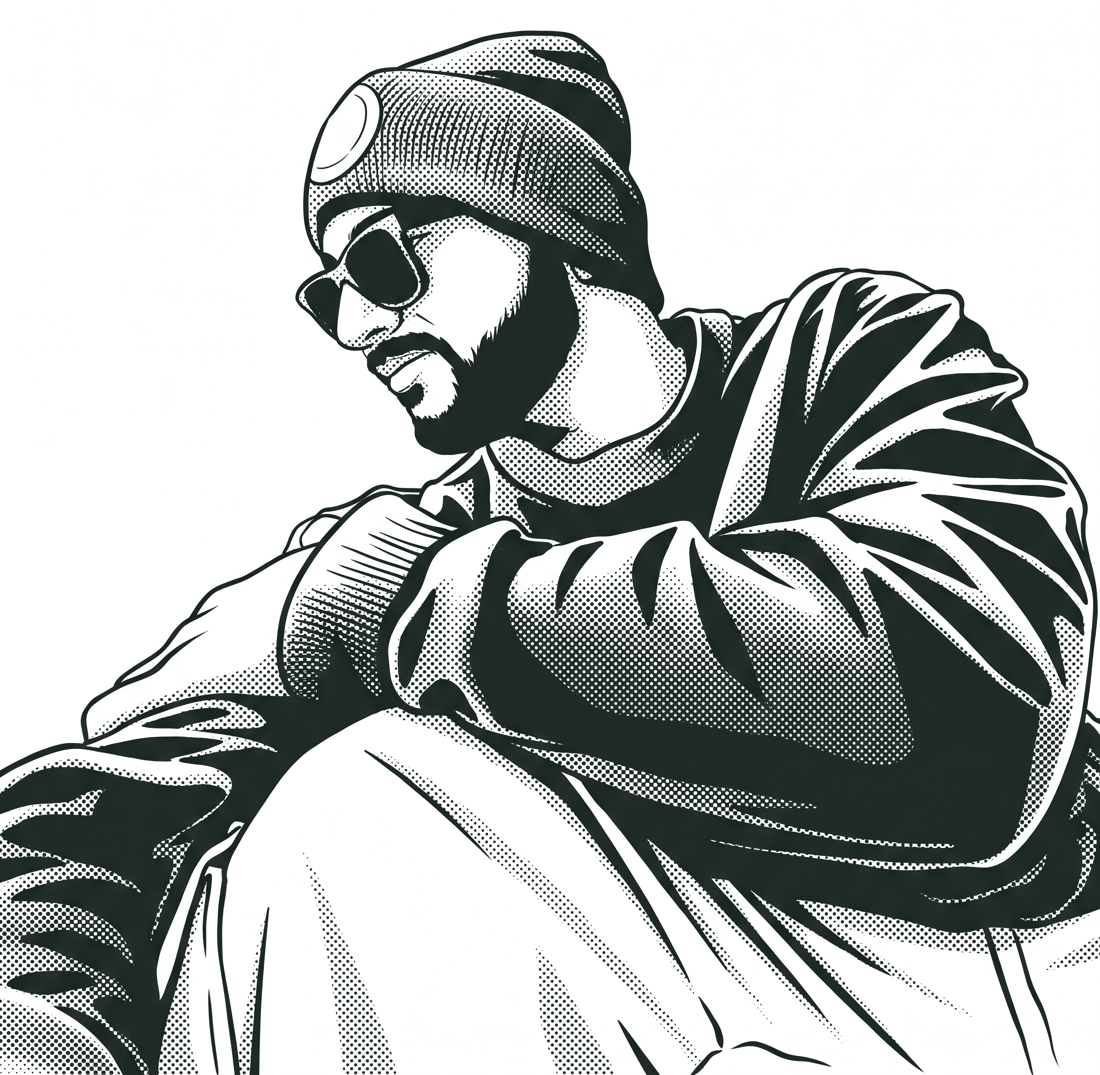
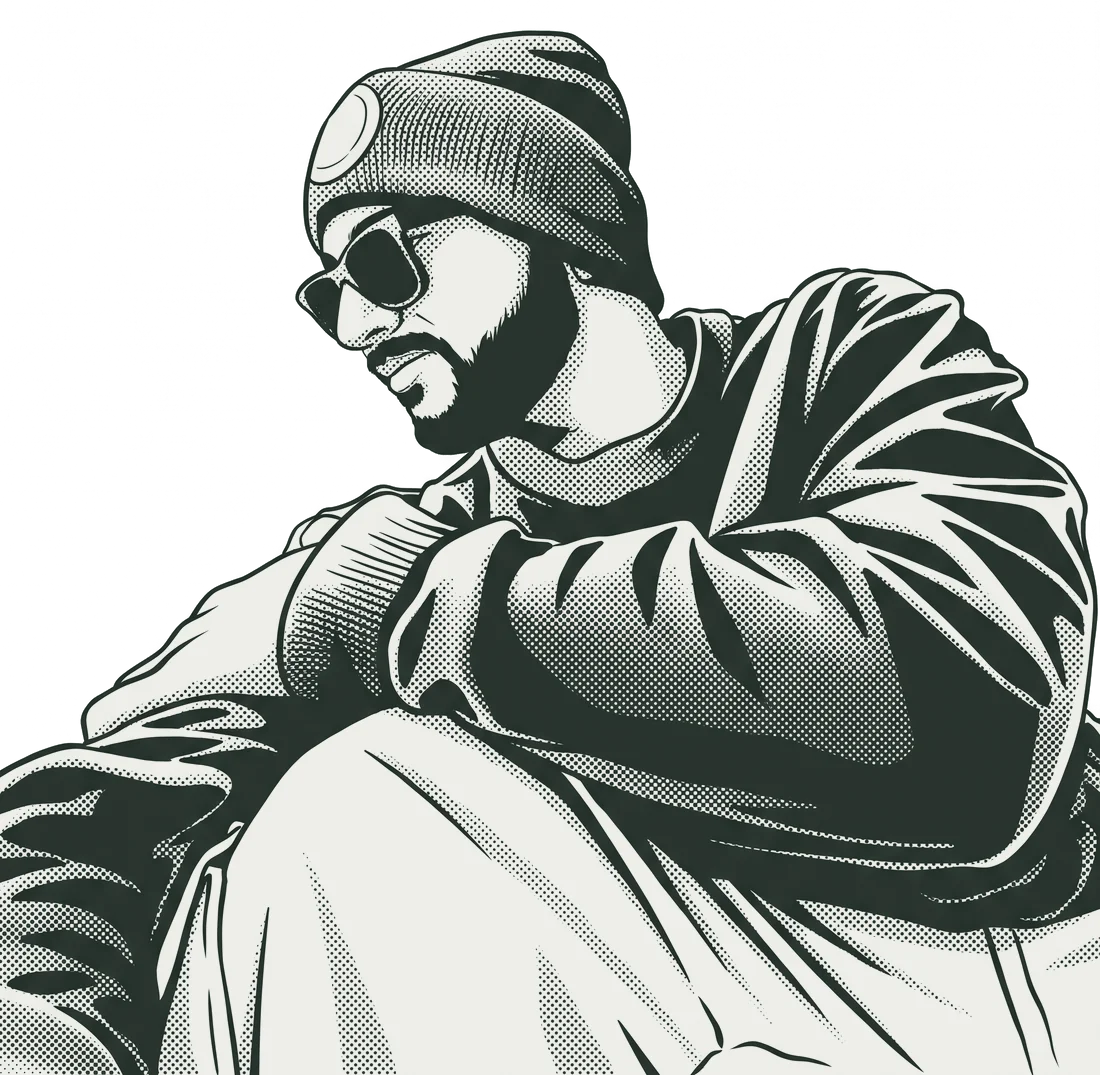
Fix guide accessibility and voice, add page-wide dot grid
- Announce the guide's answer once instead of while it streams; keep only the
  status text as a live region.
- Move focus to the target row after a "Show" jump.
- Give the header name link a 44px target.
- Make the guide an assistant that refers to Yash in the third person.
- Add a fixed dot grid behind the whole page that darkens near the pointer,
  reading its colour from the --ink token; skipped under reduced motion.
- Rebuild the portrait with an opaque figure so dots do not show through.

diff --git a/apps/web/src/App.tsx b/apps/web/src/App.tsx
@@ -1,6 +1,7 @@
 import { FormEvent, useEffect, useRef, useState } from 'react';
 import { Link } from 'react-router-dom';
 import { Answer, answerFor, projects, roles, stackGroups, suggestions } from './content';
+import { DotGrid } from './DotGrid';
 import { SiteHeader, Trace } from './parts';
 
 const contactLinks = [
@@ -46,6 +47,7 @@ export function Home() {
   const [asked, setAsked] = useState('');
   const [answer, setAnswer] = useState<Answer | null>(null);
   const [shown, setShown] = useState('');
+  const [announce, setAnnounce] = useState('');
   const [status, setStatus] = useState<Status>('ready');
   const [marked, setMarked] = useState<string | null>(null);
   const timers = useRef<number[]>([]);
@@ -69,6 +71,7 @@ export function Home() {
     setQuestion('');
     setAnswer(null);
     setShown('');
+    setAnnounce('');
     setMarked(null);
     setStatus('thinking');
 
@@ -81,6 +84,7 @@ export function Home() {
           setStatus('answering');
           if (reduce) {
             setShown(result.text);
+            setAnnounce(result.text);
             setStatus('ready');
             return;
           }
@@ -90,7 +94,10 @@ export function Home() {
             i += 1;
             setShown(words.slice(0, i).join(' '));
             if (i < words.length) timers.current.push(window.setTimeout(tick, 28));
-            else setStatus('ready');
+            else {
+              setStatus('ready');
+              setAnnounce(result.text);
+            }
           };
           tick();
         },
@@ -113,6 +120,8 @@ export function Home() {
     if (!el) return;
     // Scroll behavior comes from the stylesheet, so this matches every other jump on the page.
     el.scrollIntoView({ block: 'start' });
+    // Move keyboard and screen reader focus to the target as well.
+    el.focus({ preventScroll: true });
     const wait = prefersReducedMotion() ? 0 : 500;
     timers.current.push(window.setTimeout(() => setMarked(id), wait));
     timers.current.push(window.setTimeout(() => setMarked(null), wait + 4000));
@@ -125,6 +134,7 @@ export function Home() {
 
   return (
     <>
+      <DotGrid />
       <SiteHeader />
       <main id="main">
         <section className="ask" aria-labelledby="ask-title">
@@ -135,14 +145,15 @@ export function Home() {
           </h1>
           <p className="ask-lede">
             I’m Yash Bakshi, a software engineer who builds AI applications and the backend, cloud
-            and delivery work around them. Ask the guide about anything I’ve shipped.
+            and delivery work around them. The guide below is an assistant that answers questions
+            about my projects from my own notes.
           </p>
 
           <div className="ask-body">
             <div className="console">
               <form className="console-form" onSubmit={onSubmit}>
                 <label htmlFor="ask-input" className="console-label">
-                  Ask about my work
+                  Ask the guide about Yash’s work
                 </label>
                 <div className="console-row">
                   <input
@@ -151,7 +162,7 @@ export function Home() {
                     type="text"
                     value={question}
                     onChange={(e) => setQuestion(e.target.value)}
-                    placeholder="What have you built with RAG?"
+                    placeholder="What has Yash built with RAG?"
                     autoComplete="off"
                   />
                   <button type="submit" disabled={status !== 'ready'}>
@@ -170,8 +181,8 @@ export function Home() {
                 ))}
               </ul>
 
-              <div className="console-out" aria-live="polite">
-                <p className="console-status">
+              <div className="console-out">
+                <p className="console-status" aria-live="polite">
                   <span className={`light light-${status}`} aria-hidden="true">
                     <i />
                     <i />
@@ -180,7 +191,14 @@ export function Home() {
                   {statusLabel[status]}
                 </p>
                 {asked && <p className="console-q">{asked}</p>}
-                {shown && <p className="console-a">{shown}</p>}
+                {shown && (
+                  <p className="console-a" aria-hidden={status !== 'ready'}>
+                    {shown}
+                  </p>
+                )}
+                <p className="sr-only" role="status">
+                  {announce}
+                </p>
                 {answer && status === 'ready' && answer.cites.length > 0 && (
                   <ul className="cites" aria-label="Sources on this page">
                     {answer.cites.map((id) => (
@@ -194,8 +212,8 @@ export function Home() {
                 )}
                 {!asked && (
                   <p className="console-note">
-                    Answers are written from my own project notes. The full assistant is still in
-                    development.
+                    The guide is an assistant that answers from Yash’s project notes. The full
+                    version is still in development.
                   </p>
                 )}
               </div>
@@ -224,6 +242,7 @@ export function Home() {
               <article
                 key={p.id}
                 id={p.id}
+                tabIndex={-1}
                 className={`row${marked === p.id ? ' is-marked' : ''}`}
                 aria-labelledby={`${p.id}-name`}
               >
@@ -262,6 +281,7 @@ export function Home() {
               <li
                 key={r.id}
                 id={r.id}
+                tabIndex={-1}
                 className={`record-item${marked === r.id ? ' is-marked' : ''}`}
               >
                 <p className="record-when">{r.when}</p>
@@ -296,6 +316,7 @@ export function Home() {
         <section
           className={`contact${marked === 'contact' ? ' is-marked' : ''}`}
           id="contact"
+          tabIndex={-1}
           aria-labelledby="contact-title"
         >
           <h2 id="contact-title" className="contact-title">

diff --git a/apps/web/src/DotGrid.tsx b/apps/web/src/DotGrid.tsx
@@ -1,0 +1,127 @@
+import { useEffect, useRef } from 'react';
+
+const SPACING = 20;
+const RADIUS = 130;
+const BASE_ALPHA = 0.15;
+const PEAK_ALPHA = 0.9;
+type RGB = [number, number, number];
+
+/** Reads a hex colour token such as --ink from the stylesheet, so the dots follow the design tokens. */
+const token = (name: string, fallback: RGB): RGB => {
+  const hex = getComputedStyle(document.documentElement).getPropertyValue(name).trim();
+  const m = /^#([0-9a-f]{6})$/i.exec(hex);
+  if (!m) return fallback;
+  const n = parseInt(m[1], 16);
+  return [(n >> 16) & 255, (n >> 8) & 255, n & 255];
+};
+
+type Dot = { x: number; y: number; b: number };
+
+/**
+ * A page-wide dot grid fixed behind the content. The pointer anywhere on the page brightens and
+ * enlarges the dots near it, with an eased falloff. Skipped when the visitor prefers reduced motion.
+ */
+export function DotGrid() {
+  const ref = useRef<HTMLCanvasElement>(null);
+
+  useEffect(() => {
+    const canvas = ref.current;
+    const ctx = canvas?.getContext('2d');
+    if (!canvas || !ctx) return;
+
+    // Dots use --ink, the same colour as the portrait's line work. Lit dots get darker and larger.
+    const INK = token('--ink', [20, 33, 27]);
+    const reduce = window.matchMedia('(prefers-reduced-motion: reduce)').matches;
+    let dots: Dot[] = [];
+    let width = 0;
+    let height = 0;
+    let mouse: { x: number; y: number } | null = null;
+    let frame = 0;
+
+    const build = () => {
+      const dpr = window.devicePixelRatio || 1;
+      width = window.innerWidth;
+      height = window.innerHeight;
+      canvas.width = Math.round(width * dpr);
+      canvas.height = Math.round(height * dpr);
+      ctx.setTransform(dpr, 0, 0, dpr, 0, 0);
+      dots = [];
+      const cols = Math.floor(width / SPACING) + 2;
+      const rows = Math.floor(height / SPACING) + 2;
+      const ox = (width % SPACING) / 2;
+      const oy = (height % SPACING) / 2;
+      for (let r = 0; r < rows; r++) {
+        for (let c = 0; c < cols; c++)
+          dots.push({ x: ox + c * SPACING, y: oy + r * SPACING, b: 0 });
+      }
+    };
+
+    const paint = () => {
+      ctx.clearRect(0, 0, width, height);
+      const mx = mouse?.x ?? -99999;
+      const my = mouse?.y ?? -99999;
+      let busy = false;
+      for (const d of dots) {
+        const dx = d.x - mx;
+        const dy = d.y - my;
+        const dist = Math.hypot(dx, dy);
+        const target = dist < RADIUS ? (1 - dist / RADIUS) ** 1.5 : 0;
+        d.b += (target > d.b ? 0.16 : 0.07) * (target - d.b);
+        if (d.b < 0.004) d.b = 0;
+        else busy = true;
+        const alpha = BASE_ALPHA + (PEAK_ALPHA - BASE_ALPHA) * d.b;
+        const size = 1.4 + d.b * 1.6;
+        ctx.fillStyle = `rgba(${INK[0]},${INK[1]},${INK[2]},${alpha.toFixed(2)})`;
+        ctx.fillRect(d.x - size / 2, d.y - size / 2, size, size);
+      }
+      // Keep animating while the pointer is down on the page or dots are still fading.
+      frame = mouse || busy ? requestAnimationFrame(paint) : 0;
+    };
+
+    const wake = () => {
+      if (!frame) frame = requestAnimationFrame(paint);
+    };
+    const onMove = (e: MouseEvent) => {
+      mouse = { x: e.clientX, y: e.clientY };
+      wake();
+    };
+    const onTouch = (e: TouchEvent) => {
+      const t = e.touches[0];
+      if (t) {
+        mouse = { x: t.clientX, y: t.clientY };
+        wake();
+      }
+    };
+    const clear = () => {
+      mouse = null;
+      wake();
+    };
+    const onResize = () => {
+      build();
+      wake();
+    };
+
+    build();
+    paint();
+    window.addEventListener('resize', onResize);
+    if (!reduce) {
+      window.addEventListener('mousemove', onMove, { passive: true });
+      window.addEventListener('touchmove', onTouch, { passive: true });
+      window.addEventListener('touchend', clear, { passive: true });
+      window.addEventListener('touchcancel', clear, { passive: true });
+      document.addEventListener('mouseleave', clear);
+    }
+
+    return () => {
+      if (frame) cancelAnimationFrame(frame);
+      window.removeEventListener('resize', onResize);
+      window.removeEventListener('mousemove', onMove);
+      window.removeEventListener('touchmove', onTouch);
+      window.removeEventListener('touchend', clear);
+      window.removeEventListener('touchcancel', clear);
+      document.removeEventListener('mouseleave', clear);
+    };
+  }, []);
+
+  return <canvas ref={ref} className="dotgrid" aria-hidden="true" />;
+}

diff --git a/apps/web/src/styles/global.css b/apps/web/src/styles/global.css
@@ -109,6 +109,9 @@ main,
 }
 
 .site-name {
+  display: inline-flex;
+  align-items: center;
+  min-height: 44px;
   white-space: nowrap;
   font-size: 1.25rem;
   font-weight: 800;
@@ -855,4 +858,42 @@ main,
 
 .site-footer a {
   text-underline-offset: 0.2em;
+}
+
+/* ---------- visually hidden text for screen readers ---------- */
+.sr-only {
+  position: absolute;
+  width: 1px;
+  height: 1px;
+  margin: -1px;
+  padding: 0;
+  overflow: hidden;
+  clip: rect(0 0 0 0);
+  white-space: nowrap;
+  border: 0;
+}
+
+/* ---------- page-wide dot grid, fixed behind everything ---------- */
+.dotgrid {
+  position: fixed;
+  inset: 0;
+  z-index: 0;
+  width: 100%;
+  height: 100%;
+  pointer-events: none;
+}
+
+main,
+.site-footer {
+  position: relative;
+  z-index: 1;
+}
+
+[tabindex='-1']:focus {
+  outline: none;
+}
+
+[tabindex='-1']:focus-visible {
+  outline: 3px solid var(--action);
+  outline-offset: 3px;
 }

diff --git a/apps/web/src/CaseStudy.tsx b/apps/web/src/CaseStudy.tsx
@@ -1,5 +1,6 @@
 import { Link } from 'react-router-dom';
 import { projects } from './content';
+import { DotGrid } from './DotGrid';
 import { SiteHeader, Trace } from './parts';
 
 const project = projects.find((p) => p.id === 'testpilot')!;
@@ -7,6 +8,7 @@ const project = projects.find((p) => p.id === 'testpilot')!;
 export function CaseStudy() {
   return (
     <>
+      <DotGrid />
       <SiteHeader />
       <main id="main" className="case">
         <p className="case-back">

diff --git a/apps/web/src/content.ts b/apps/web/src/content.ts
@@ -172,10 +172,10 @@ export const stackGroups = [
 export type Answer = { text: string; cites: string[] };
 
 export const suggestions = [
-  'What have you built with RAG?',
-  'Show me your backend experience',
-  'Have you worked with agents?',
-  'What cloud work have you done?',
+  'What has Yash built with RAG?',
+  'Show me his backend experience',
+  'Has he worked with agents?',
+  'What cloud work has he done?',
 ];
 
 const find = (ids: string[]) =>

diff --git a/docs/design/design-language.md b/docs/design/design-language.md
@@ -49,7 +49,8 @@ Sentence case throughout. No all-caps labels, no eyebrow above every heading, no
 
 ## Components
 
-- **Guide console:** labelled input, Ask button, suggested-question chips, status light with text, answer area (`aria-live`), and "Show" buttons that jump to a cited row. Ask is available whenever the guide is ready. An empty submit moves focus to the input.
+- **Guide voice:** the page speaks as Yash in first person; the guide is introduced as an assistant that answers from his project notes and refers to him in the third person. It never claims to be him.
+- **Guide console:** labelled input, Ask button, suggested-question chips, status light with text, answer area (status text is a polite live region; streamed text is hidden from assistive tech until done, then announced once), and "Show" buttons that jump to a cited row. Ask is available whenever the guide is ready. An empty submit moves focus to the input.
 - **Status light:** red while answering, yellow while thinking, green when ready, with matching text: "Answering, one moment", "Looking through the notes", "Ready for your question".
 - **Trace:** a waterfall of pipeline stages, each starting one step right of the last. It shows order only. Do not add timings unless they are measured.
 - **Project row:** see Layout. A project with a published case study links to it; others say the case study is in preparation.
@@ -59,6 +60,7 @@ Sentence case throughout. No all-caps labels, no eyebrow above every heading, no
 ## Motion
 
 - One load sequence: the three headline lines rise in turn.
+- A quiet dot grid is fixed behind the whole page. Dots near the pointer, wherever it is on the page, grow and darken to full ink, the same colour as the portrait's line work, then ease back. It is decoration only (`aria-hidden`) and is skipped under reduced motion. Panels with a solid background cover it, and the portrait is opaque inside the figure so no dots show through the face.
 - The guide streams its answer word by word. Reduced motion shows the full answer immediately.
 - All jumps (nav links, the name link, skip link, "Show" buttons) use one stylesheet-level smooth scroll. The citation highlight starts after the jump has mostly arrived.
 - No scroll-triggered entrance effects, parallax or hover animation on every card. Reduced motion turns off smooth scroll, the headline animation and the highlight sweep.
